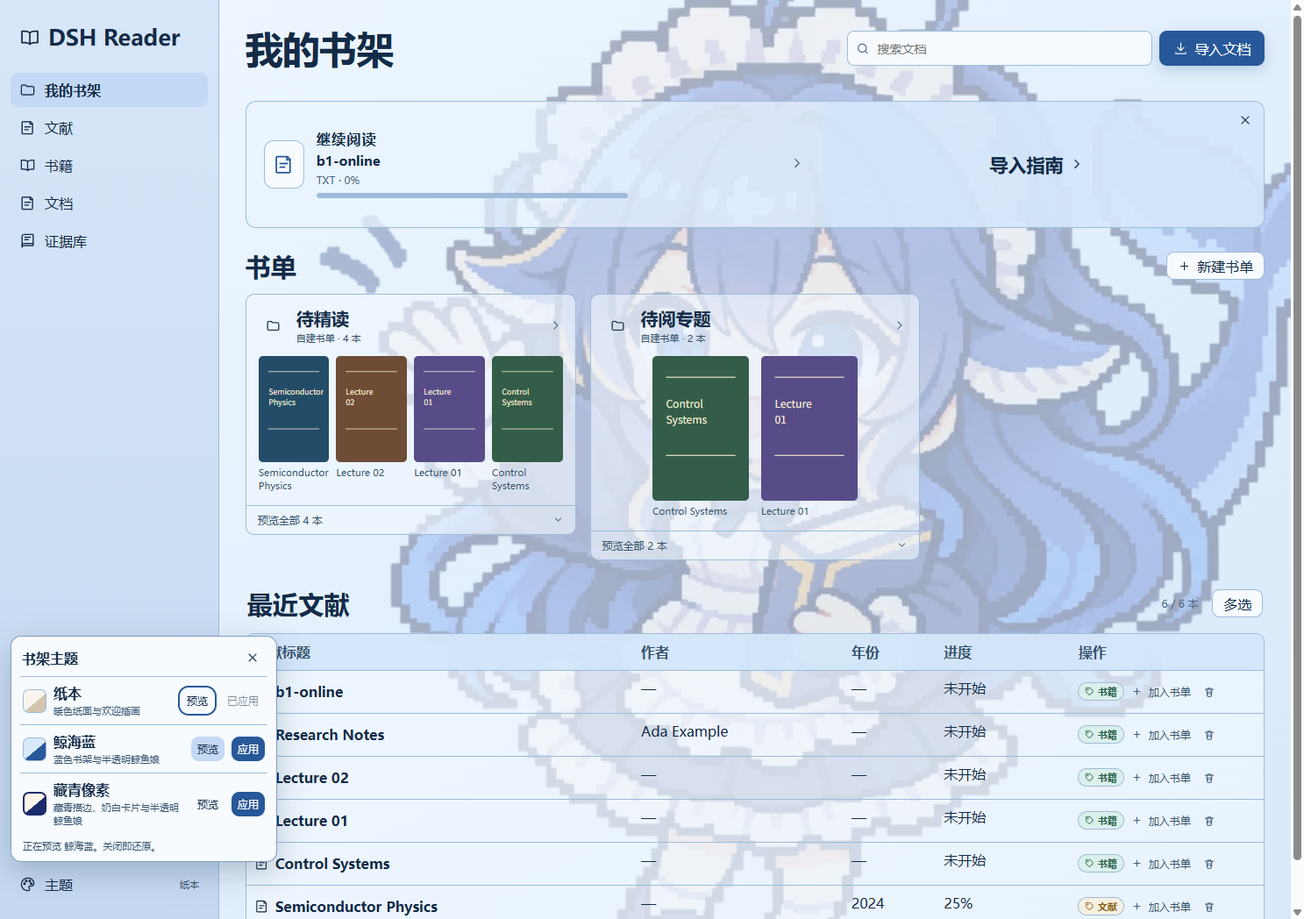
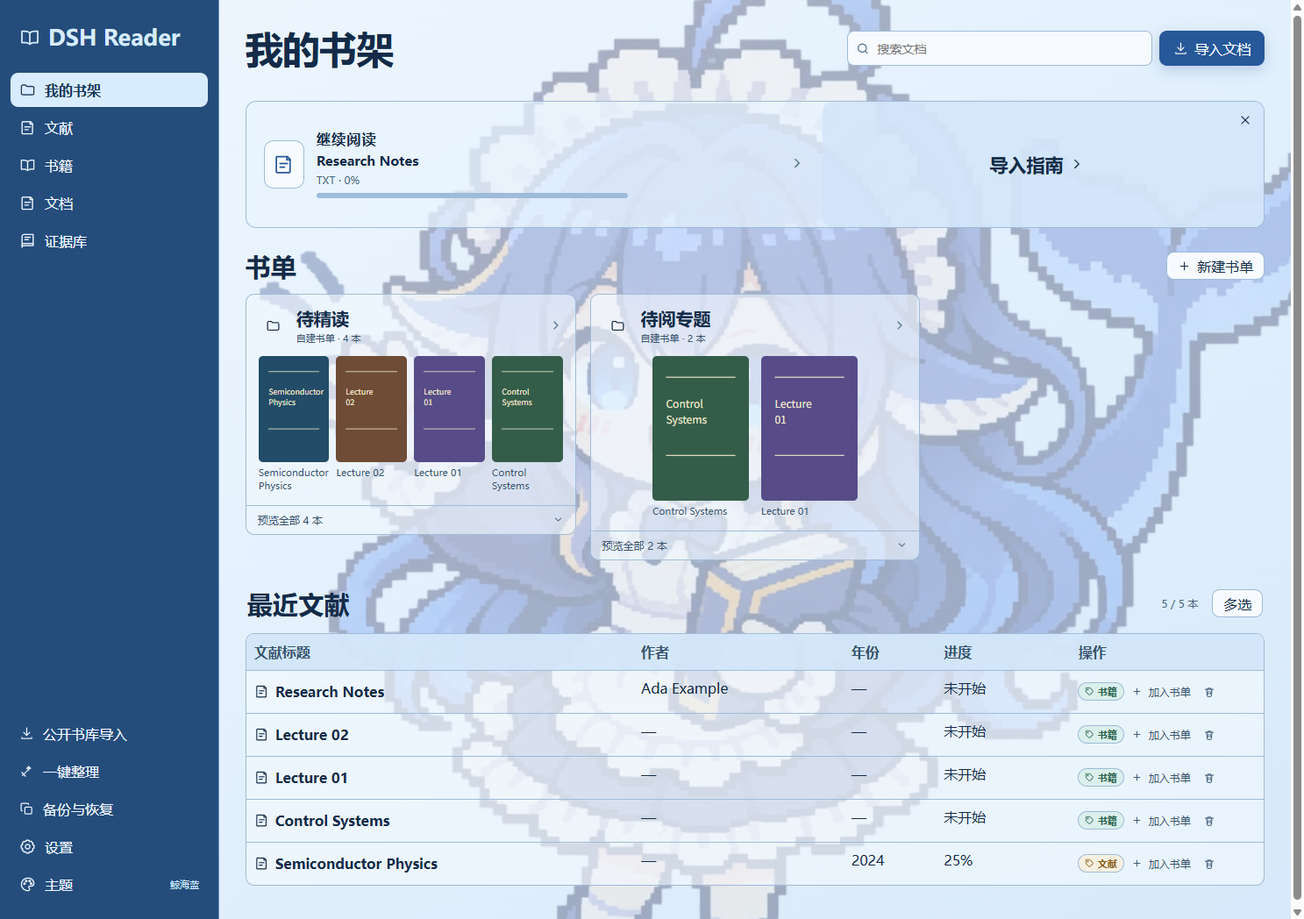
Keep theme actions readable and distinguish Whale Blue navigation

diff --git a/client/client.js b/client/client.js
@@ -2676,13 +2676,13 @@ gate = \u6805\u6781`,onChange:R=>_(R.target.value)})]}),(0,Le.jsx)("button",{typ
 .dshr-library-nav__brand { display:flex; align-items:center; gap:9px; padding:0 10px; font-size:clamp(17px,1.9cqi,25px); white-space:nowrap; }
 .dshr-library-nav nav, .dshr-library-nav__actions { display:grid; gap:4px; }
 .dshr-library-nav__actions { margin-top:auto; }
-.dshr-library-nav button {
+.dshr-library-nav :is(nav,.dshr-library-nav__actions) > button {
   display:flex; align-items:center; gap:10px; min-height:39px; padding:8px 10px;
   text-align:left; white-space:nowrap; border:0; border-radius:9px; color:inherit; background:none;
 }
-.dshr-library-nav button[aria-current="page"] { font-weight:700; background:var(--dshr-brand-soft); }
-.dshr-library-nav button:hover:not(:disabled) { background:var(--dshr-hover); }
-.dshr-library-nav button:disabled { opacity:.52; }
+.dshr-library-nav :is(nav,.dshr-library-nav__actions) > button[aria-current="page"] { font-weight:700; background:var(--dshr-brand-soft); }
+.dshr-library-nav :is(nav,.dshr-library-nav__actions) > button:hover:not(:disabled):not([aria-current="page"]) { background:var(--dshr-hover); }
+.dshr-library-nav :is(nav,.dshr-library-nav__actions) > button:disabled { opacity:.52; }
 .dshr-library-nav svg, .dshr-library-row__title svg { flex:0 0 auto; }
 .dshr-library-pane { display:flex; min-width:0; min-height:0; }
 .dshr-library-shell .dshr-library__inner { width:100%; max-width:1540px; padding:30px clamp(18px,2cqi,34px) 42px; }
@@ -2754,8 +2754,8 @@ gate = \u6805\u6781`,onChange:R=>_(R.target.value)})]}),(0,Le.jsx)("button",{typ
   .dshr-library-nav__brand svg { width:17px; height:17px; }
   .dshr-library-nav nav, .dshr-library-nav__actions { display:flex; flex-wrap:wrap; gap:3px; }
   .dshr-library-nav__actions { margin:0; }
-  .dshr-library-nav button { min-height:32px; padding:4px 6px; font-size:12px; gap:4px; }
-  .dshr-library-nav button svg { width:14px; height:14px; }
+  .dshr-library-nav :is(nav,.dshr-library-nav__actions) > button { min-height:32px; padding:4px 6px; font-size:12px; gap:4px; }
+  .dshr-library-nav :is(nav,.dshr-library-nav__actions) > button svg { width:14px; height:14px; }
   .dshr-library-shell .dshr-library__inner { padding:19px 16px 30px; }
   .dshr-library-shell .dshr-hero { align-items:stretch; }
   .dshr-library-shell .dshr-hero__actions { flex:0 1 auto; justify-content:flex-start; }
@@ -2789,9 +2789,18 @@ gate = \u6805\u6781`,onChange:R=>_(R.target.value)})]}),(0,Le.jsx)("button",{typ
 .dshr-theme-option__identity small,.dshr-theme-picker__status { color:var(--dshr-fg-2); font-size:11px; }
 .dshr-theme-option__swatch { width:27px; height:27px; flex:none; border:1px solid var(--dshr-border); border-radius:7px; background:linear-gradient(140deg,#f8f5ef 54%,#d4c5b1 55%); }
 [data-option="whale-blue"] .dshr-theme-option__swatch { background:linear-gradient(140deg,#d7e9fa 54%,#275899 55%); }
-.dshr-theme-picker button { min-height:28px; padding:4px 6px; border:1px solid transparent; font-size:12px; }
-.dshr-theme-picker button[aria-pressed="true"] { background:var(--dshr-brand-soft); }
+.dshr-theme-picker button {
+  display:inline-flex; align-items:center; justify-content:center; min-height:28px; padding:4px 6px;
+  white-space:nowrap; border:1px solid transparent; border-radius:7px;
+  background:transparent; color:var(--dshr-fg); font-size:12px;
+}
+.dshr-theme-picker button:hover:not(:disabled) { background:var(--dshr-hover); }
+.dshr-theme-picker button[data-theme-preview][aria-pressed="true"] { background:var(--dshr-brand-soft); border-color:var(--dshr-border-strong); }
+.dshr-theme-picker .dshr-theme-apply { font-weight:650; }
 .dshr-theme-picker .dshr-theme-apply:not(:disabled) { background:var(--dshr-brand); color:var(--dshr-on-brand); }
+.dshr-theme-picker .dshr-theme-apply:not(:disabled):hover { background:color-mix(in srgb,var(--dshr-brand) 86%,var(--dshr-fg)); }
+.dshr-theme-picker .dshr-theme-apply:not(:disabled):active { background:color-mix(in srgb,var(--dshr-brand) 76%,var(--dshr-fg)); }
+.dshr-theme-picker .dshr-theme-apply:disabled { color:var(--dshr-fg-2); opacity:1; cursor:default; }
 .dshr-theme-picker button:focus-visible { outline:2px solid var(--dshr-brand); outline-offset:1px; }
 .dshr-theme-picker__status { margin:6px 3px 0; }
 .dshr-library-shell[data-library-theme="whale-blue"] {
@@ -2799,7 +2808,8 @@ gate = \u6805\u6781`,onChange:R=>_(R.target.value)})]}),(0,Le.jsx)("button",{typ
   --dshr-fg:#142b48; --dshr-fg-2:#35536e; --dshr-fg-3:#466684;
   --dshr-border:#9ebbd9; --dshr-border-strong:#7f9fbf;
   --dshr-brand:#275899; --dshr-brand-soft:#c4d9f5; --dshr-hover:#d5e7fa;
-  --dshr-blue-base:#eff7ff; --dshr-blue-deep:#d7e9fa; --dshr-blue-rail:#c5d9f2;
+  --dshr-blue-base:#eff7ff; --dshr-blue-deep:#d7e9fa;
+  --dshr-blue-rail:#244d7c; --dshr-blue-rail-hover:#315e8c; --dshr-blue-rail-divider:#6d9ac4;
   --dshr-blue-start:rgba(233,244,255,.71); --dshr-blue-guide:rgba(208,227,250,.76);
   --dshr-blue-card:rgba(240,247,255,.62); --dshr-blue-rows:rgba(245,250,255,.59);
   --dshr-blue-head:rgba(210,229,250,.9); --dshr-blue-art-opacity:.29;
@@ -2810,14 +2820,20 @@ gate = \u6805\u6781`,onChange:R=>_(R.target.value)})]}),(0,Le.jsx)("button",{typ
   --dshr-fg:#eff6ff; --dshr-fg-2:#bfd4eb; --dshr-fg-3:#b3cae5;
   --dshr-border:#506f94; --dshr-border-strong:#6989af;
   --dshr-brand:#a3caff; --dshr-brand-soft:#324d6e; --dshr-hover:#2b4869;
-  --dshr-blue-base:#172f49; --dshr-blue-deep:#102238; --dshr-blue-rail:#132b45;
+  --dshr-blue-base:#172f49; --dshr-blue-deep:#102238;
+  --dshr-blue-rail:#315d88; --dshr-blue-rail-hover:#3d6d99; --dshr-blue-rail-divider:#6c97be;
   --dshr-blue-start:rgba(29,51,76,.85); --dshr-blue-guide:rgba(36,68,102,.86);
   --dshr-blue-card:rgba(27,50,77,.8); --dshr-blue-rows:rgba(24,43,67,.8);
   --dshr-blue-head:rgba(39,69,102,.94); --dshr-blue-art-opacity:.22;
 }
 [data-library-theme="whale-blue"] .dshr-library-nav {
-  background:linear-gradient(180deg,var(--dshr-layer-3),var(--dshr-blue-rail)); border-right:1px solid var(--dshr-border);
+  background:var(--dshr-blue-rail); color:#f2f8ff; border-inline-end:1px solid var(--dshr-blue-rail-divider);
 }
+[data-library-theme="whale-blue"] .dshr-library-nav__brand { color:#d8ecff; }
+[data-library-theme="whale-blue"] .dshr-library-nav :is(nav,.dshr-library-nav__actions) > button[aria-current="page"] { background:#d8ecff; color:#193958; }
+[data-library-theme="whale-blue"] .dshr-library-nav :is(nav,.dshr-library-nav__actions) > button:hover:not(:disabled):not([aria-current="page"]) { background:var(--dshr-blue-rail-hover); }
+[data-library-theme="whale-blue"] .dshr-library-nav :is(nav,.dshr-library-nav__actions) > button:focus-visible { outline:2px solid #d8ecff; outline-offset:1px; }
+[data-library-theme="whale-blue"] .dshr-library-nav .dshr-theme-trigger__current { color:#cce5fa; }
 /* The pane stays in place while its library child scrolls. */
 .dshr-library-pane[data-library-backdrop] { position:relative; isolation:isolate; overflow:hidden; }
 .dshr-library-pane[data-library-backdrop="welcome"] { --dshr-backdrop-image:url('/dsh-reader-assets/mascot/welcome-background.webp'); --dshr-backdrop-x:0.489; --dshr-backdrop-y:0.486; }
@@ -2862,9 +2878,9 @@ gate = \u6805\u6781`,onChange:R=>_(R.target.value)})]}),(0,Le.jsx)("button",{typ
 [data-ds-dark-theme] [data-library-theme="whale-navy"] .dshr-book__category.is-document { color:#3d4f8f; }
 [data-library-theme="whale-navy"] .dshr-library-nav { background:var(--dshr-navy-rail); color:var(--dshr-navy-rail-fg); border-right:2px solid var(--dshr-border); }
 [data-library-theme="whale-navy"] .dshr-library-nav__brand { color:var(--dshr-navy-gold); font-family:ui-monospace,Consolas,monospace; letter-spacing:.06em; text-transform:uppercase; }
-[data-library-theme="whale-navy"] .dshr-library-nav button { border-radius:6px; }
-[data-library-theme="whale-navy"] .dshr-library-nav button[aria-current="page"] { background:var(--dshr-navy-rail-current); color:#1b2a6b; box-shadow:3px 3px 0 var(--dshr-navy-gold); }
-[data-library-theme="whale-navy"] .dshr-library-nav button:hover:not(:disabled) { background:rgba(255,255,255,.12); }
+[data-library-theme="whale-navy"] .dshr-library-nav :is(nav,.dshr-library-nav__actions) > button { border-radius:6px; }
+[data-library-theme="whale-navy"] .dshr-library-nav :is(nav,.dshr-library-nav__actions) > button[aria-current="page"] { background:var(--dshr-navy-rail-current); color:#1b2a6b; box-shadow:3px 3px 0 var(--dshr-navy-gold); }
+[data-library-theme="whale-navy"] .dshr-library-nav :is(nav,.dshr-library-nav__actions) > button:hover:not(:disabled):not([aria-current="page"]) { background:rgba(255,255,255,.12); }
 [data-library-theme="whale-navy"] .dshr-library-nav .dshr-theme-trigger__current { color:var(--dshr-navy-rail-fg-2); }
 [data-library-theme="whale-navy"] .dshr-library-start { border-width:2px; border-radius:8px; background:var(--dshr-blue-start); box-shadow:var(--dshr-navy-shadow); }
 [data-library-theme="whale-navy"] .dshr-library-guide__open { min-height:68px; border-radius:6px; background:var(--dshr-blue-guide); }
@@ -2880,6 +2896,7 @@ gate = \u6805\u6781`,onChange:R=>_(R.target.value)})]}),(0,Le.jsx)("button",{typ
 [data-library-theme="whale-navy"] .dshr-resume__progress i { background:var(--dshr-navy-gold); }
 @container (max-width:760px) {
   .dshr-library-nav .dshr-theme-trigger__current { display:none; }
+  [data-library-theme="whale-blue"] .dshr-library-nav { border-inline-end:0; border-bottom:1px solid var(--dshr-blue-rail-divider); }
   .dshr-library-pane[data-library-backdrop]::before { width:min(820px,150%); }
 }
 `;var Hf=String.raw`

diff --git a/web/src/styles.js b/web/src/styles.js
@@ -774,13 +774,13 @@ export const styles = String.raw`
 .dshr-library-nav__brand { display:flex; align-items:center; gap:9px; padding:0 10px; font-size:clamp(17px,1.9cqi,25px); white-space:nowrap; }
 .dshr-library-nav nav, .dshr-library-nav__actions { display:grid; gap:4px; }
 .dshr-library-nav__actions { margin-top:auto; }
-.dshr-library-nav button {
+.dshr-library-nav :is(nav,.dshr-library-nav__actions) > button {
   display:flex; align-items:center; gap:10px; min-height:39px; padding:8px 10px;
   text-align:left; white-space:nowrap; border:0; border-radius:9px; color:inherit; background:none;
 }
-.dshr-library-nav button[aria-current="page"] { font-weight:700; background:var(--dshr-brand-soft); }
-.dshr-library-nav button:hover:not(:disabled) { background:var(--dshr-hover); }
-.dshr-library-nav button:disabled { opacity:.52; }
+.dshr-library-nav :is(nav,.dshr-library-nav__actions) > button[aria-current="page"] { font-weight:700; background:var(--dshr-brand-soft); }
+.dshr-library-nav :is(nav,.dshr-library-nav__actions) > button:hover:not(:disabled):not([aria-current="page"]) { background:var(--dshr-hover); }
+.dshr-library-nav :is(nav,.dshr-library-nav__actions) > button:disabled { opacity:.52; }
 .dshr-library-nav svg, .dshr-library-row__title svg { flex:0 0 auto; }
 .dshr-library-pane { display:flex; min-width:0; min-height:0; }
 .dshr-library-shell .dshr-library__inner { width:100%; max-width:1540px; padding:30px clamp(18px,2cqi,34px) 42px; }
@@ -852,8 +852,8 @@ export const styles = String.raw`
   .dshr-library-nav__brand svg { width:17px; height:17px; }
   .dshr-library-nav nav, .dshr-library-nav__actions { display:flex; flex-wrap:wrap; gap:3px; }
   .dshr-library-nav__actions { margin:0; }
-  .dshr-library-nav button { min-height:32px; padding:4px 6px; font-size:12px; gap:4px; }
-  .dshr-library-nav button svg { width:14px; height:14px; }
+  .dshr-library-nav :is(nav,.dshr-library-nav__actions) > button { min-height:32px; padding:4px 6px; font-size:12px; gap:4px; }
+  .dshr-library-nav :is(nav,.dshr-library-nav__actions) > button svg { width:14px; height:14px; }
   .dshr-library-shell .dshr-library__inner { padding:19px 16px 30px; }
   .dshr-library-shell .dshr-hero { align-items:stretch; }
   .dshr-library-shell .dshr-hero__actions { flex:0 1 auto; justify-content:flex-start; }
@@ -887,9 +887,18 @@ export const styles = String.raw`
 .dshr-theme-option__identity small,.dshr-theme-picker__status { color:var(--dshr-fg-2); font-size:11px; }
 .dshr-theme-option__swatch { width:27px; height:27px; flex:none; border:1px solid var(--dshr-border); border-radius:7px; background:linear-gradient(140deg,#f8f5ef 54%,#d4c5b1 55%); }
 [data-option="whale-blue"] .dshr-theme-option__swatch { background:linear-gradient(140deg,#d7e9fa 54%,#275899 55%); }
-.dshr-theme-picker button { min-height:28px; padding:4px 6px; border:1px solid transparent; font-size:12px; }
-.dshr-theme-picker button[aria-pressed="true"] { background:var(--dshr-brand-soft); }
+.dshr-theme-picker button {
+  display:inline-flex; align-items:center; justify-content:center; min-height:28px; padding:4px 6px;
+  white-space:nowrap; border:1px solid transparent; border-radius:7px;
+  background:transparent; color:var(--dshr-fg); font-size:12px;
+}
+.dshr-theme-picker button:hover:not(:disabled) { background:var(--dshr-hover); }
+.dshr-theme-picker button[data-theme-preview][aria-pressed="true"] { background:var(--dshr-brand-soft); border-color:var(--dshr-border-strong); }
+.dshr-theme-picker .dshr-theme-apply { font-weight:650; }
 .dshr-theme-picker .dshr-theme-apply:not(:disabled) { background:var(--dshr-brand); color:var(--dshr-on-brand); }
+.dshr-theme-picker .dshr-theme-apply:not(:disabled):hover { background:color-mix(in srgb,var(--dshr-brand) 86%,var(--dshr-fg)); }
+.dshr-theme-picker .dshr-theme-apply:not(:disabled):active { background:color-mix(in srgb,var(--dshr-brand) 76%,var(--dshr-fg)); }
+.dshr-theme-picker .dshr-theme-apply:disabled { color:var(--dshr-fg-2); opacity:1; cursor:default; }
 .dshr-theme-picker button:focus-visible { outline:2px solid var(--dshr-brand); outline-offset:1px; }
 .dshr-theme-picker__status { margin:6px 3px 0; }
 .dshr-library-shell[data-library-theme="whale-blue"] {
@@ -897,7 +906,8 @@ export const styles = String.raw`
   --dshr-fg:#142b48; --dshr-fg-2:#35536e; --dshr-fg-3:#466684;
   --dshr-border:#9ebbd9; --dshr-border-strong:#7f9fbf;
   --dshr-brand:#275899; --dshr-brand-soft:#c4d9f5; --dshr-hover:#d5e7fa;
-  --dshr-blue-base:#eff7ff; --dshr-blue-deep:#d7e9fa; --dshr-blue-rail:#c5d9f2;
+  --dshr-blue-base:#eff7ff; --dshr-blue-deep:#d7e9fa;
+  --dshr-blue-rail:#244d7c; --dshr-blue-rail-hover:#315e8c; --dshr-blue-rail-divider:#6d9ac4;
   --dshr-blue-start:rgba(233,244,255,.71); --dshr-blue-guide:rgba(208,227,250,.76);
   --dshr-blue-card:rgba(240,247,255,.62); --dshr-blue-rows:rgba(245,250,255,.59);
   --dshr-blue-head:rgba(210,229,250,.9); --dshr-blue-art-opacity:.29;
@@ -908,14 +918,20 @@ export const styles = String.raw`
   --dshr-fg:#eff6ff; --dshr-fg-2:#bfd4eb; --dshr-fg-3:#b3cae5;
   --dshr-border:#506f94; --dshr-border-strong:#6989af;
   --dshr-brand:#a3caff; --dshr-brand-soft:#324d6e; --dshr-hover:#2b4869;
-  --dshr-blue-base:#172f49; --dshr-blue-deep:#102238; --dshr-blue-rail:#132b45;
+  --dshr-blue-base:#172f49; --dshr-blue-deep:#102238;
+  --dshr-blue-rail:#315d88; --dshr-blue-rail-hover:#3d6d99; --dshr-blue-rail-divider:#6c97be;
   --dshr-blue-start:rgba(29,51,76,.85); --dshr-blue-guide:rgba(36,68,102,.86);
   --dshr-blue-card:rgba(27,50,77,.8); --dshr-blue-rows:rgba(24,43,67,.8);
   --dshr-blue-head:rgba(39,69,102,.94); --dshr-blue-art-opacity:.22;
 }
 [data-library-theme="whale-blue"] .dshr-library-nav {
-  background:linear-gradient(180deg,var(--dshr-layer-3),var(--dshr-blue-rail)); border-right:1px solid var(--dshr-border);
+  background:var(--dshr-blue-rail); color:#f2f8ff; border-inline-end:1px solid var(--dshr-blue-rail-divider);
 }
+[data-library-theme="whale-blue"] .dshr-library-nav__brand { color:#d8ecff; }
+[data-library-theme="whale-blue"] .dshr-library-nav :is(nav,.dshr-library-nav__actions) > button[aria-current="page"] { background:#d8ecff; color:#193958; }
+[data-library-theme="whale-blue"] .dshr-library-nav :is(nav,.dshr-library-nav__actions) > button:hover:not(:disabled):not([aria-current="page"]) { background:var(--dshr-blue-rail-hover); }
+[data-library-theme="whale-blue"] .dshr-library-nav :is(nav,.dshr-library-nav__actions) > button:focus-visible { outline:2px solid #d8ecff; outline-offset:1px; }
+[data-library-theme="whale-blue"] .dshr-library-nav .dshr-theme-trigger__current { color:#cce5fa; }
 /* The pane stays in place while its library child scrolls. */
 .dshr-library-pane[data-library-backdrop] { position:relative; isolation:isolate; overflow:hidden; }
 .dshr-library-pane[data-library-backdrop="welcome"] { --dshr-backdrop-image:url('/dsh-reader-assets/mascot/welcome-background.webp'); --dshr-backdrop-x:0.489; --dshr-backdrop-y:0.486; }
@@ -960,9 +976,9 @@ export const styles = String.raw`
 [data-ds-dark-theme] [data-library-theme="whale-navy"] .dshr-book__category.is-document { color:#3d4f8f; }
 [data-library-theme="whale-navy"] .dshr-library-nav { background:var(--dshr-navy-rail); color:var(--dshr-navy-rail-fg); border-right:2px solid var(--dshr-border); }
 [data-library-theme="whale-navy"] .dshr-library-nav__brand { color:var(--dshr-navy-gold); font-family:ui-monospace,Consolas,monospace; letter-spacing:.06em; text-transform:uppercase; }
-[data-library-theme="whale-navy"] .dshr-library-nav button { border-radius:6px; }
-[data-library-theme="whale-navy"] .dshr-library-nav button[aria-current="page"] { background:var(--dshr-navy-rail-current); color:#1b2a6b; box-shadow:3px 3px 0 var(--dshr-navy-gold); }
-[data-library-theme="whale-navy"] .dshr-library-nav button:hover:not(:disabled) { background:rgba(255,255,255,.12); }
+[data-library-theme="whale-navy"] .dshr-library-nav :is(nav,.dshr-library-nav__actions) > button { border-radius:6px; }
+[data-library-theme="whale-navy"] .dshr-library-nav :is(nav,.dshr-library-nav__actions) > button[aria-current="page"] { background:var(--dshr-navy-rail-current); color:#1b2a6b; box-shadow:3px 3px 0 var(--dshr-navy-gold); }
+[data-library-theme="whale-navy"] .dshr-library-nav :is(nav,.dshr-library-nav__actions) > button:hover:not(:disabled):not([aria-current="page"]) { background:rgba(255,255,255,.12); }
 [data-library-theme="whale-navy"] .dshr-library-nav .dshr-theme-trigger__current { color:var(--dshr-navy-rail-fg-2); }
 [data-library-theme="whale-navy"] .dshr-library-start { border-width:2px; border-radius:8px; background:var(--dshr-blue-start); box-shadow:var(--dshr-navy-shadow); }
 [data-library-theme="whale-navy"] .dshr-library-guide__open { min-height:68px; border-radius:6px; background:var(--dshr-blue-guide); }
@@ -978,6 +994,7 @@ export const styles = String.raw`
 [data-library-theme="whale-navy"] .dshr-resume__progress i { background:var(--dshr-navy-gold); }
 @container (max-width:760px) {
   .dshr-library-nav .dshr-theme-trigger__current { display:none; }
+  [data-library-theme="whale-blue"] .dshr-library-nav { border-inline-end:0; border-bottom:1px solid var(--dshr-blue-rail-divider); }
   .dshr-library-pane[data-library-backdrop]::before { width:min(820px,150%); }
 }
 `;

diff --git a/scripts/library-browser-harness.jsx b/scripts/library-browser-harness.jsx
@@ -678,6 +678,93 @@ try {
   results.push({ check:'b11-mascot-composition', windowCases:composition.length,
     minBackdropScalePercent:Math.min(...composition.map(entry => entry.backdropScalePercent)),
     maxAnchorErrorCssPx:Math.max(...composition.map(entry => entry.anchorErrorCssPx)) });
+  const swatch = document.createElement('canvas');
+  swatch.width = swatch.height = 1;
+  const pixel = swatch.getContext('2d', { willReadFrequently:true });
+  const luminance = (color, under = '#fff') => {
+    pixel.fillStyle = under;
+    pixel.fillRect(0,0,1,1);
+    pixel.fillStyle = color;
+    pixel.fillRect(0,0,1,1);
+    const linear = [...pixel.getImageData(0,0,1,1).data].slice(0,3).map(channel => {
+      const value = channel / 255;
+      return value <= 0.04045 ? value / 12.92 : ((value + 0.055) / 1.055) ** 2.4;
+    });
+    return linear[0]*0.2126 + linear[1]*0.7152 + linear[2]*0.0722;
+  };
+  const ratio = (a,b) => (Math.max(a,b)+0.05)/(Math.min(a,b)+0.05);
+  const forceState = async (selector, classes) => {
+    window.__libraryControlState = {selector,classes};
+    await until(() => !window.__libraryControlState, 'CSS state not applied: ' + classes.join(','));
+  };
+  const themeChoices = [['whale-navy','藏青像素'],['whale-blue','鲸海蓝'],['paper','纸本']];
+  const pickerChecks = [];
+  for (const [theme,label] of themeChoices) {
+    await click('主题');
+    await click('应用'+label,picker());
+    await until(() => shelfTheme()===theme, 'theme palette not applied');
+    for (const dark of [true,false]) {
+      document.documentElement.toggleAttribute('data-ds-dark-theme',dark);
+      await click('主题');
+      const menu = picker();
+      const surface = getComputedStyle(menu).backgroundColor;
+      const applied = menu.querySelector('.dshr-theme-apply:disabled');
+      assert(applied?.textContent === '已应用' && applied.closest('[data-option]').dataset.option === theme
+        && getComputedStyle(applied).opacity==='1'
+        && ratio(luminance(getComputedStyle(applied).color,surface),luminance(surface))>=4.5,'applied status unreadable or wrong');
+      for (const [target] of themeChoices.filter(([id]) => id !== theme)) {
+        const selector = '.dshr-theme-picker [data-option="' + target + '"] .dshr-theme-apply';
+        const button = document.querySelector(selector);
+        for (const [state,classes] of [['default',[]],['hover',['hover']],['focus',['focus','focus-visible']],['active',['hover','active']]]) {
+          if (classes.length) await forceState(selector,classes);
+          const style = getComputedStyle(button);
+          const textContrast = ratio(luminance(style.color,surface),luminance(style.backgroundColor,surface));
+          const focusContrast = state==='focus' ? ratio(luminance(style.outlineColor,surface),luminance(surface)) : null;
+          if (theme==='whale-navy' && target==='whale-blue' && dark && state==='hover') await capture('navy-theme-apply-hover');
+          assert(textContrast>=4.5, [theme,target,dark,state,'apply contrast',textContrast].join(' '));
+          if (state==='focus') assert(parseFloat(style.outlineWidth)>=2 && style.outlineStyle==='solid' && focusContrast>=3, 'picker focus indicator unreadable');
+          pickerChecks.push({theme,target,dark,state,textContrast,focusContrast});
+        }
+        await forceState(selector,[]);
+      }
+      await click('关闭主题选择',menu);
+    }
+  }
+  await click('主题');
+  await click('应用鲸海蓝',picker());
+  await until(() => shelfTheme()==='whale-blue','blue rail theme not applied');
+  const railChecks=[];
+  for (const width of [540,1280]) {
+    mount.style.width=width+'px';
+    for (const dark of [false,true]) {
+      document.documentElement.toggleAttribute('data-ds-dark-theme',dark);
+      const rail=document.querySelector('.dshr-library-nav');
+      const shell=rail.closest('.dshr-library-shell');
+      const railStyle=getComputedStyle(rail);
+      const main=getComputedStyle(shell).getPropertyValue('--dshr-blue-base');
+      const mainDeep=getComputedStyle(shell).getPropertyValue('--dshr-blue-deep');
+      const railLum=luminance(railStyle.backgroundColor);
+      const separation=Math.min(ratio(railLum,luminance(main)),ratio(railLum,luminance(mainDeep)));
+      const current=rail.querySelector('[aria-current="page"]');
+      const currentStyle=getComputedStyle(current);
+      const currentBackground=currentStyle.backgroundColor;
+      const navContrast=Math.min(ratio(luminance(railStyle.color),railLum),
+        ratio(luminance(currentStyle.color),luminance(currentStyle.backgroundColor,railStyle.backgroundColor)));
+      const divider=width===540 ? railStyle.borderBottomWidth : railStyle.borderRightWidth;
+      assert(separation>=1.6 && navContrast>=4.5 && parseFloat(divider)>=1 && rail.scrollWidth===rail.clientWidth,'blue rail blend or layout failed');
+      const selector='.dshr-library-nav [aria-current="page"]';
+      await forceState(selector,['hover']);
+      assert(getComputedStyle(current).backgroundColor===currentBackground
+        && ratio(luminance(getComputedStyle(current).color),luminance(getComputedStyle(current).backgroundColor,railStyle.backgroundColor))>=4.5,
+        'hover obscured current navigation');
+      await forceState(selector,[]);
+      railChecks.push({width,dark,separation,navContrast,dividerCssPx:parseFloat(divider)});
+      if (width===1280) await capture(dark ? 'blue-rail-dark' : 'blue-rail-light');
+    }
+  }
+  mount.style.width='';
+  document.documentElement.removeAttribute('data-ds-dark-theme');
+  results.push({check:'b13-theme-contrast',pickerChecks,railChecks});
   await clearLibrary();
   assert(!(await listBookCollections()).length && !(await listBooks()).length, 'clear library left stale folders');
   assert(errors.length === 0, errors.join('; '));

diff --git a/README.de.md b/README.de.md
@@ -20,7 +20,7 @@ Die Bibliothek hat drei Designs. Unter **主题** (Design) unten in der Seitenle
 
 | 纸本 (Papier) | 鲸海蓝 (Walblau) | 藏青像素 (Marine-Pixel) |
 | --- | --- | --- |
-| ![Bibliotheksstart im Papier-Design auf dunklem Host](docs/images/library-paper.png) | ![Bibliotheksstart in Walblau mit geöffneter Designauswahl unten links](docs/images/library-whale-blue.png) | ![Bibliotheksstart im Marine-Pixel-Design](docs/images/library-navy-pixel.png) |
+| ![Bibliotheksstart im Papier-Design auf dunklem Host](docs/images/library-paper.png) | ![Bibliotheksstart in Walblau mit kräftig blauem Navigationsbereich](docs/images/library-whale-blue.png) | ![Bibliotheksstart im Marine-Pixel-Design](docs/images/library-navy-pixel.png) |
 | Warme Papiertöne, das winkende Walmädchen sitzt auf der Begrüßungskarte. | Hellblaues Regal mit dem Walmädchen als halbtransparentem Hintergrund. | Marineblaue Seitenleiste, cremefarbene Karten und Pixelkonturen. |
 
 Beide Walmädchen-Designs zeigen auf der Startseite sowie unter Fachliteratur, Büchern und Dokumenten jeweils ein passendes Motiv. Der Hintergrund bleibt beim Scrollen stehen.
@@ -172,6 +172,8 @@ Die Leistungstests umfassen komplexe Beispiel-PDFs und ein direkt in DSH geöffn
 - Layoutgetreuer Export übersetzter PDFs und Export von Anmerkungen sind nicht enthalten. Belege und Themennotizen lassen sich als Markdown exportieren. Beim Löschen lokaler Website-Daten gehen Bibliothek und Einstellungen verloren.
 
 ## Entwicklungsstand
+
+**Designkontrast.** Beim Überfahren, Fokussieren und Drücken behalten die Schaltflächen zum Anwenden ihre Designfarben. Bei Walblau setzt sich die kräftigere blaue Navigation vom sanfteren Bücherregal ab.
 
 **9. November 2026 · B1 freigegeben · Alle 40 Prüfungen bestanden.** Im immersiven Modus bleiben beschriftete Schaltflächen für Darstellung, Vollbild und Beenden sichtbar. Bei E-Books lässt sich auch das Inhaltsverzeichnis ein- und ausblenden. Leiste und Einstellungsfenster übernehmen das Lesefarbschema. Die Einstellungen bleiben beim Neustart erhalten.
 

diff --git a/README.md b/README.md
@@ -20,7 +20,7 @@ The library has three themes. Preview and switch them under **主题** (Theme) a
 
 | 纸本 (Paper) | 鲸海蓝 (Whale Blue) | 藏青像素 (Navy Pixel) |
 | --- | --- | --- |
-| ![Library home in the Paper theme on a dark host](docs/images/library-paper.png) | ![Library home in Whale Blue with the theme picker open at the lower left](docs/images/library-whale-blue.png) | ![Library home in the Navy Pixel theme](docs/images/library-navy-pixel.png) |
+| ![Library home in the Paper theme on a dark host](docs/images/library-paper.png) | ![Library home in Whale Blue with a deep-blue navigation rail](docs/images/library-whale-blue.png) | ![Library home in the Navy Pixel theme](docs/images/library-navy-pixel.png) |
 | Warm paper tones, with the waving whale girl on the welcome card. | A light blue shelf with the whale girl as a translucent background. | Navy sidebar, cream cards, and pixel-style outlines. |
 
 Both whale girl themes use a matching background on the library home, Papers, Books, and Documents. The background stays in place as you scroll.
@@ -172,6 +172,8 @@ The performance checks include complex sample PDFs and a 1,029-page textbook ope
 - Layout-preserving translated PDF export and annotation export are not included. Evidence and topic notes can be exported as Markdown. Clearing local site data removes the local library and settings.
 
 ## Development status
+
+**Theme contrast.** Apply buttons keep their current theme colors when hovered, focused, or pressed. Whale Blue uses a deeper blue navigation area beside a softer bookshelf.
 
 **November 9, 2026 · B1 released · 40 of 40 checks passed.** Immersive reading now has an always-visible row of labeled controls for appearance, fullscreen, and exit. Ebooks also have a contents toggle. The toolbar and appearance panel follow the reading theme, and settings persist across restarts.
 

diff --git a/README.zh-CN.md b/README.zh-CN.md
@@ -20,7 +20,7 @@
 
 | 纸本 | 鲸海蓝 | 藏青像素 |
 | --- | --- | --- |
-| ![纸本主题的书架首页，深色宿主](docs/images/library-paper.png) | ![鲸海蓝主题的书架首页，左下角打开了主题选择器](docs/images/library-whale-blue.png) | ![藏青像素主题的书架首页](docs/images/library-navy-pixel.png) |
+| ![纸本主题的书架首页，深色宿主](docs/images/library-paper.png) | ![鲸海蓝主题的书架首页，蓝色导航区与浅蓝主区分开](docs/images/library-whale-blue.png) | ![藏青像素主题的书架首页](docs/images/library-navy-pixel.png) |
 | 暖色纸面，欢迎卡里是挥手的鲸鱼娘。 | 浅蓝书架，鲸鱼娘半透明铺在背景里。 | 藏青导航栏、奶白卡片和像素风描边。 |
 
 两套鲸鱼娘主题在首页、文献、书籍和文档各用一张对应的背景，滚动时背景固定不动。
@@ -172,6 +172,8 @@ PDF 阅读和批注截图见 [中文使用详解](docs/USER_GUIDE.zh-CN.md)。
 - 暂无保留排版的译文 PDF 导出及批注导出。证据和专题笔记可导出为 Markdown。清空站点数据会移除本地书架和设置。
 
 ## 开发进度
+
+**主题对比度。** 「应用」按钮在悬停、键盘聚焦和按下时保持当前主题配色。鲸海蓝用较深的蓝色导航区衬托柔和的书架主区。
 
 **2026 年 11 月 9 日 · B1 已放行 · 40 项全部通过。** 沉浸阅读顶部常驻外观、全屏和退出，电子书另有目录开关。按钮都有文字标签，工具栏和外观面板随阅读背景变化，设置重启后保留。
 

diff --git a/AGENTS.md b/AGENTS.md
@@ -6,6 +6,8 @@ Use baseline requirement and verification IDs. Keep batch outcomes, defects, dec
 
 Every new feature follows the V-model workflow: record functional and non-functional requirements with measurable acceptance criteria, keep the SysML and verification trace synchronized, and archive decisions, candidate identity, failures, and evidence. Use a different process only when the user explicitly requests an exception, and record its scope and follow-up in the batch.
 
+Theme and UI-state changes follow the same archived process. Record theme-specific color and accessibility criteria, test pointer and keyboard states in the applicable host modes and widths, and link screenshots and measurements to the affected requirements and verification cases.
+
 ## Completion and publication
 
 At the end of each completed DSH Reader project task, synchronize both GitHub repositories before reporting completion.
